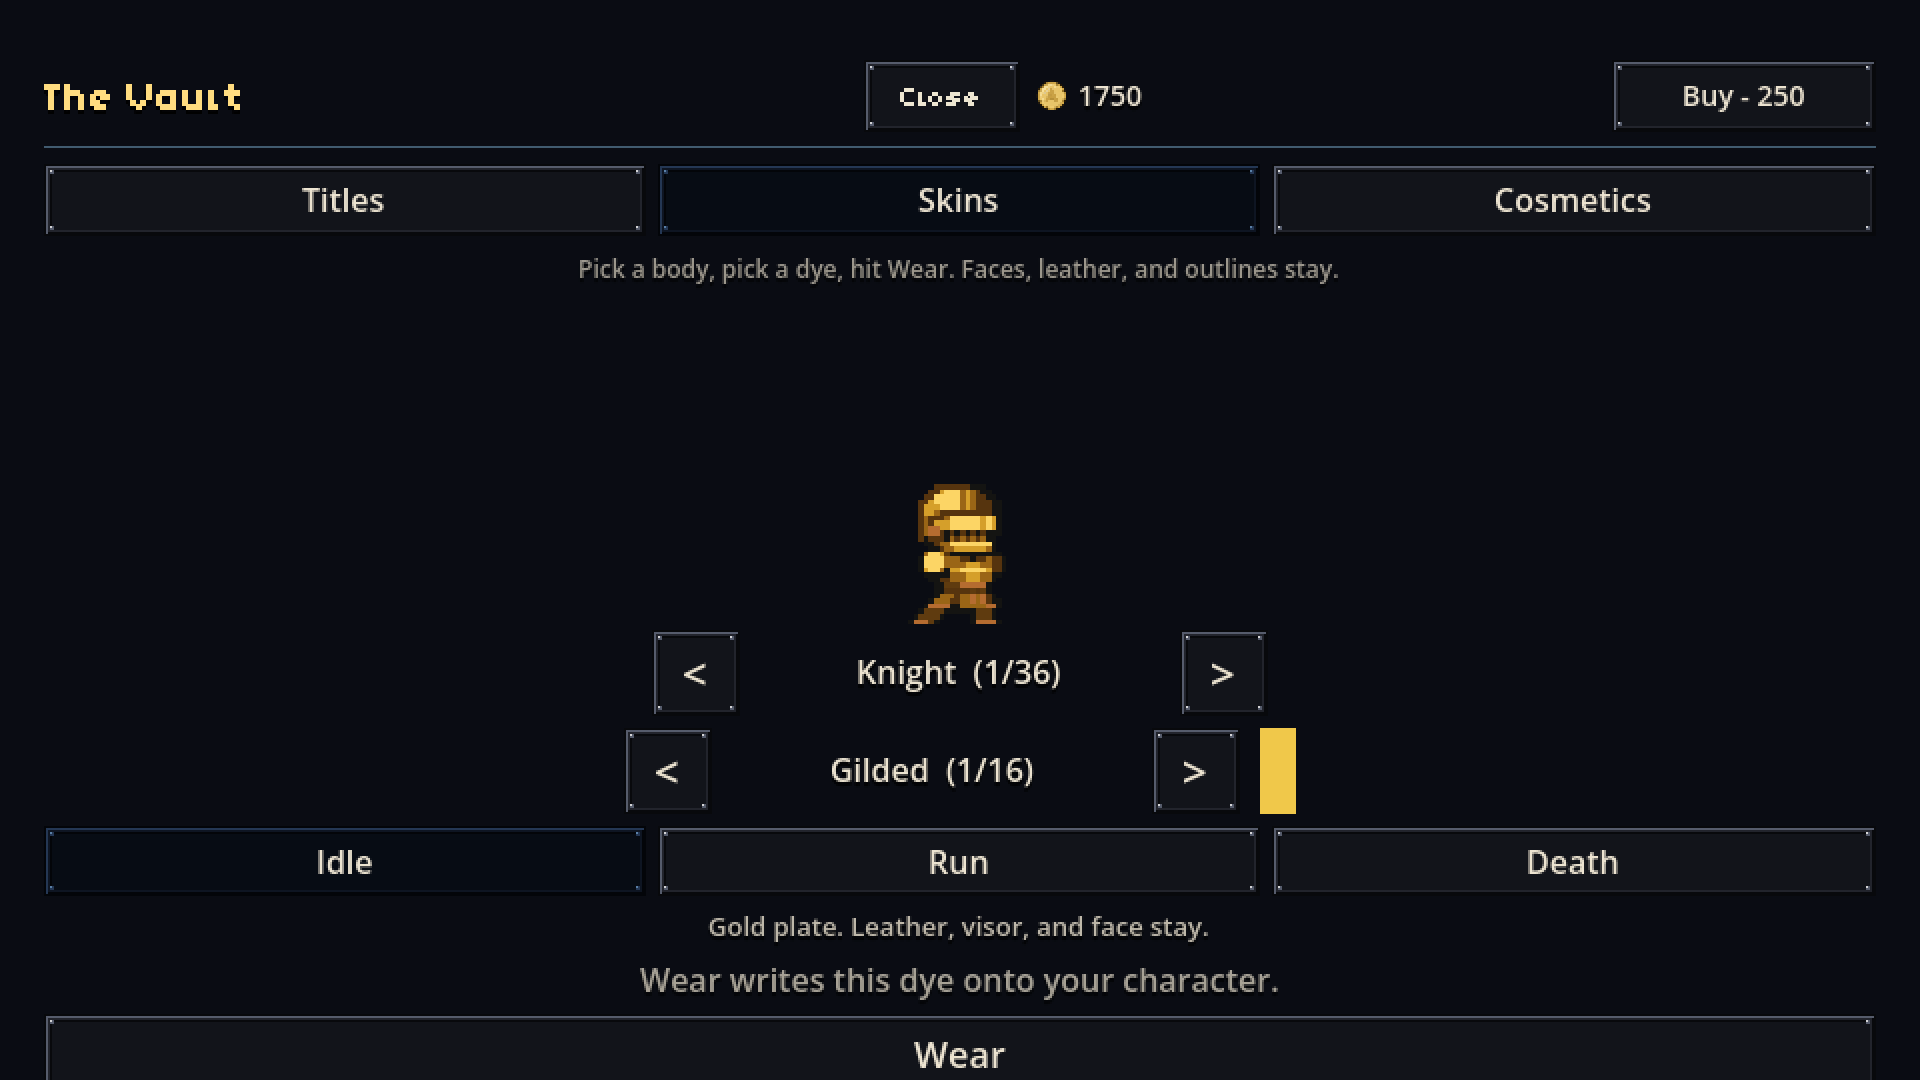
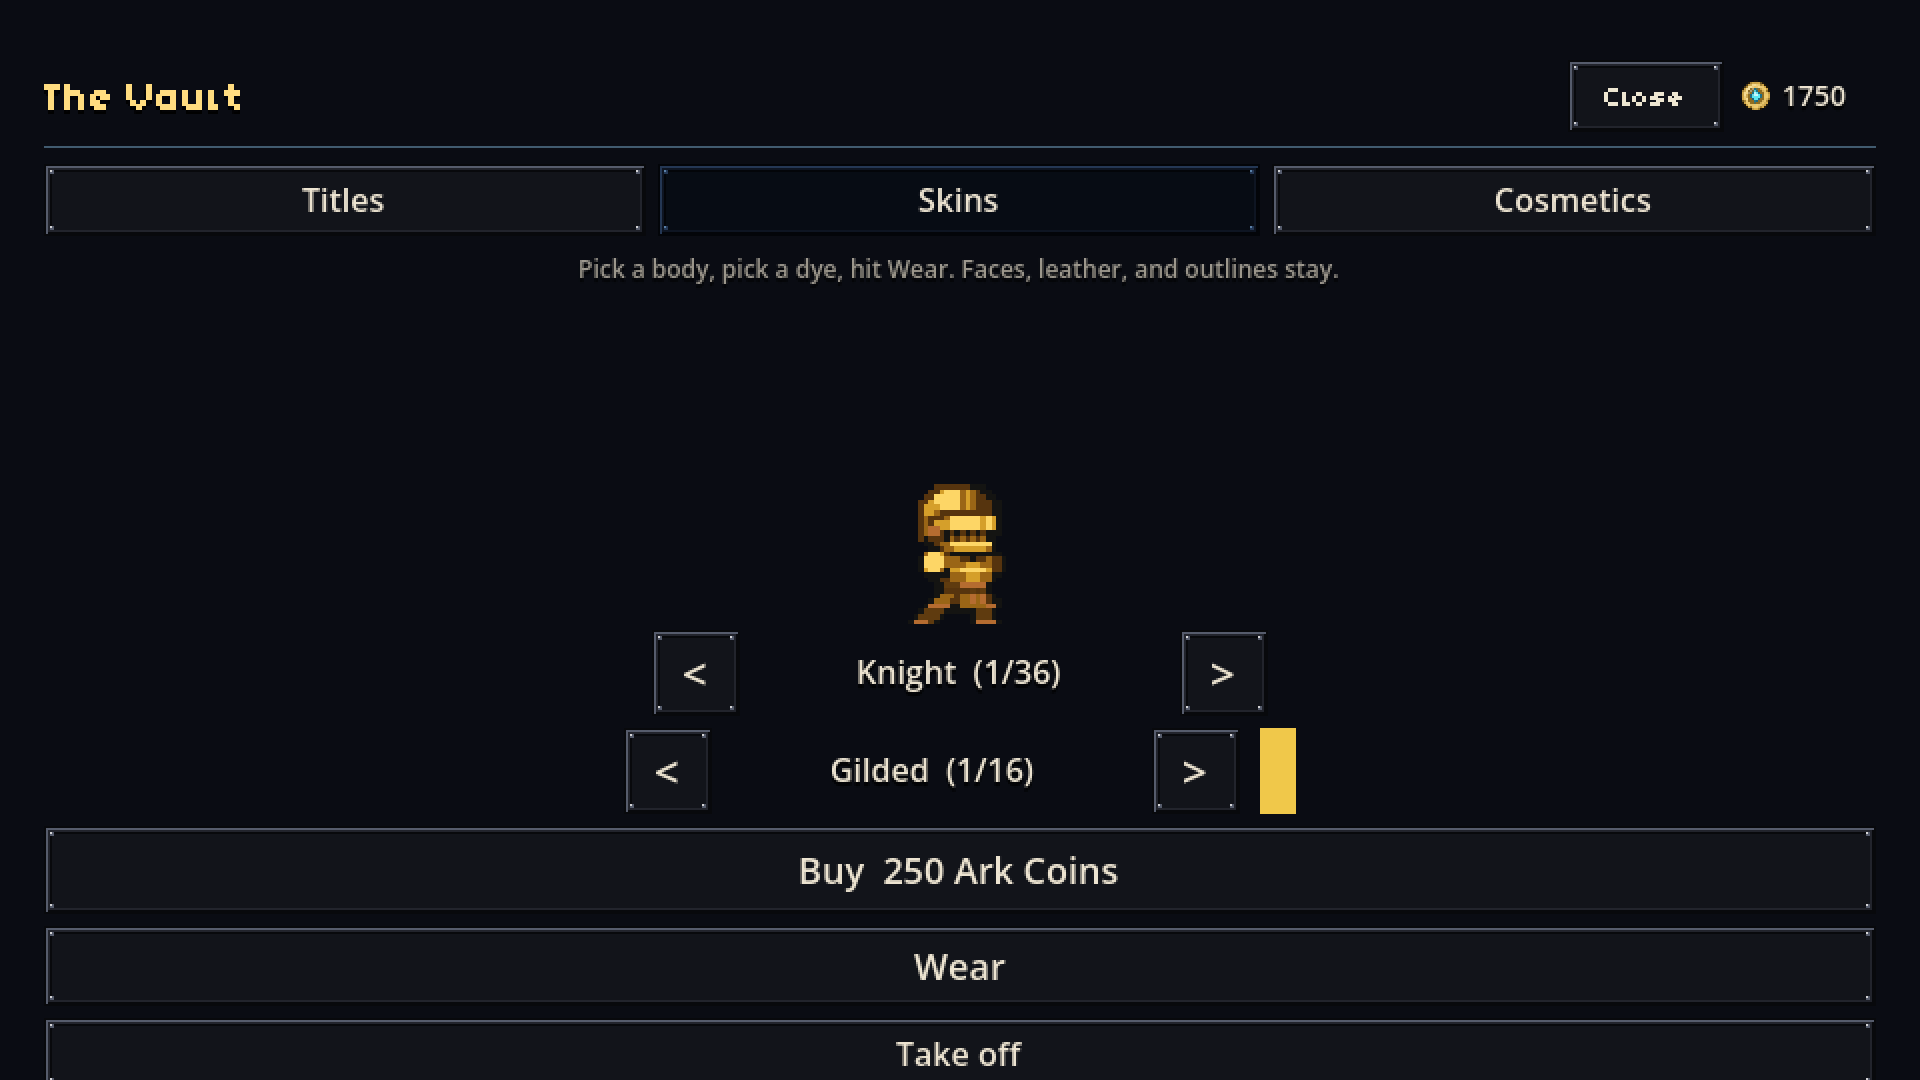
Ark Coin becomes a set gem; Buy moves above Wear; Skins loses its clutter
THE COIN IS A SET GEM NOW, not a struck letter. The letter-marks all failed the
same way: a glyph identifies by SHAPE, and shape is exactly what a NEAREST
halving to 16px destroys, so every A collapsed into a dark smear at the size the
coin is smallest. A gem identifies by COLOUR, and teal on gold survives any
downscale because it does not depend on any particular pixel surviving - measured
contrast at 16px went from 139 to 151. It also earns its place: gems are already
a generated icon family here, so a stone set in gold reads as something from this
game rather than as a logo in a circle. Teal is #5CE8F0, the Aether vault dye.

THE COMMA WAS NOT A BUG, IT WAS A MISSING GLYPH. --display is Jersey 10, which
has no real comma at that size, so toLocaleString's "1,000" rendered as a stray
block. Dropped the separator entirely; four digits do not need one.

SKINS: the Idle / Run / Death row and both lines under it are gone. The blurb
described the dye you were already looking at and the status line described the
button directly beneath it. The status label survives but is HIDDEN unless a Wear
actually fails, which is the only thing it was needed for.

BUY MOVED OUT OF THE HEADER AND INTO THE TAB, directly above each panel's own
Wear / Equip, full width at 18pt - the 14pt corner version was too small to read
a price off before clicking. One button is re-homed into whichever tab is
showing rather than three kept in sync, so "Processing..." and the in-flight lock
[…]

diff --git a/tools/build_ark_coin_icon.py b/tools/build_ark_coin_icon.py
@@ -20,7 +20,7 @@ It has to survive three sizes that are very far apart:
     every other pixel, so nothing thinner than ~3px at 64 is real)
   * 256px+ on the storefront
 
-So: ONE silhouette, ONE glyph, no fine detail. A face-on disc reads as coinage at
+So: ONE silhouette, ONE mark, no fine detail. A face-on disc reads as coinage at
 any size, and face-on (not the three-quarter ellipse that looks better large)
 keeps a clean circular edge when the pixels get thrown away.
 
@@ -29,13 +29,21 @@ are both #e8c56a, which is what the Donate page and every price uses. A premium
 currency in a NEW colour would be the only gold-adjacent thing on the site that
 is not those, and would read as a different kind of value.
 
-The glyph is an angular "A": two legs and a crossbar, 4px thick at 64 so it
-survives the halving. Deliberately not the project icon — that is a detailed
-mark that turns to mush below 32px.
+A SET GEM, NOT A LETTER, and that is the whole reason this version works. A
+glyph identifies by SHAPE, and shape is exactly what a NEAREST halving to 16px
+destroys — every letter-mark tried here collapsed into a dark smear at the size
+the coin is smallest. The gem identifies by COLOUR: teal against gold is a
+two-tone contrast that survives any downscale, because it does not depend on any
+particular pixel surviving.
 
-Stamped, not printed: the glyph is cut INTO the coin as a darker inset with a
-light top edge, so it reads as struck metal rather than a sticker. That is what
-keeps it looking like currency instead of a logo in a circle.
+It also earns its place in the world. Gems are already a generated icon family
+here (tools/build_gem_icons.py), where cut carries tier and hue carries role, so
+a gem set into gold reads as "valuable thing from this game" rather than as a
+logo someone put in a circle.
+
+Teal is #5CE8F0 — the Aether vault dye, the one palette in the game that is
+unmistakably arcane rather than elemental, and far enough from every gold on the
+site that the two can never blur together.
 
 Usage:  python tools/build_ark_coin_icon.py [--check]
         --check renders and reports legibility at 16/32/64 without writing.
@@ -71,6 +79,13 @@ GOLD_MID = (0xC9, 0xA1, 0x45)
 GOLD_DEEP = (0x8E, 0x6C, 0x22)
 OUTLINE = (0x2A, 0x1E, 0x08)
 
+# The set stone. Matches VaultSkins.STYLE_AETHER (#5ce8f0); the deep tone is the
+# same hue dropped in value, so the girdle reads as one stone in shadow rather
+# than as two colours side by side.
+GEM = (0x5C, 0xE8, 0xF0)
+GEM_DEEP = (0x1E, 0x6E, 0x86)
+GEM_LIGHT = (0xC4, 0xF7, 0xFB)
+
 # ~2px of rim at 64, so ~1px survives the drop to 32.
 OUTLINE_W = 2.0 * SS
 
@@ -79,23 +94,33 @@ def _disc(draw: ImageDraw.ImageDraw, cx: float, cy: float, r: float, fill) -> No
     draw.ellipse([cx - r, cy - r, cx + r, cy + r], fill=fill)
 
 
-def _glyph_a(draw: ImageDraw.ImageDraw, cx: float, cy: float, h: float, w: float, fill) -> None:
-    """An angular A: two splayed legs and a crossbar. No counter (the triangular
-    hole) — at 32px it fills in anyway, and leaving it out means the shape is the
-    same at every size instead of degrading into a blob."""
-    half = w * 0.5
-    top = cy - h * 0.5
-    bottom = cy + h * 0.5
-    stroke = w * 0.30
+def _gem(draw: ImageDraw.ImageDraw, cx: float, cy: float, r: float) -> None:
+    """A set stone: girdle, body, and one bright table facet.
 
-    draw.line([(cx, top), (cx - half, bottom)], fill=fill, width=int(stroke), joint="curve")
-    draw.line([(cx, top), (cx + half, bottom)], fill=fill, width=int(stroke), joint="curve")
-    # Crossbar low enough to leave the apex readable when the legs thicken.
-    bar_y = cy + h * 0.16
-    bar_half = half * 0.52
-    draw.line([(cx - bar_half, bar_y), (cx + bar_half, bar_y)], fill=fill, width=int(stroke * 0.9))
-    # Round the apex so the two legs read as one joined stroke at small sizes.
-    _disc(draw, cx, top, stroke * 0.5, fill)
+    A rhombus rather than a rounded stone because four straight edges and two
+    points stay recognisable when the pixel grid gets coarse - a circle inside a
+    circle just reads as a blob. Narrower than it is tall so it cannot be
+    mistaken for a square turned 45 degrees."""
+    draw.polygon(
+        [(cx, cy - r), (cx + r * 0.78, cy), (cx, cy + r), (cx - r * 0.78, cy)],
+        fill=GEM_DEEP,
+    )
+    draw.polygon(
+        [(cx, cy - r * 0.72), (cx + r * 0.56, cy), (cx, cy + r * 0.72), (cx - r * 0.56, cy)],
+        fill=GEM,
+    )
+    # Table facet, up and left with the coin's own light. Small on purpose: at
+    # 16px it merges into the body and the stone just reads a shade lighter,
+    # which is the right way for it to fail.
+    draw.polygon(
+        [
+            (cx, cy - r * 0.52),
+            (cx + r * 0.26, cy - r * 0.10),
+            (cx, cy + r * 0.06),
+            (cx - r * 0.26, cy - r * 0.10),
+        ],
+        fill=GEM_LIGHT,
+    )
 
 
 def render() -> Image.Image:
@@ -124,13 +149,10 @@ def render() -> Image.Image:
     _disc(d, cx - r_face * 0.10, cy - r_face * 0.10, r_face * 0.86, GOLD_LIGHT)
     _disc(d, cx, cy, r_face * 0.80, GOLD)
 
-    # The glyph, struck in: dark body with a light top edge one step up, which is
-    # what sells "pressed into metal" rather than "drawn on top of".
-    gh = r_face * 1.02
-    gw = r_face * 0.92
-    _glyph_a(d, cx, cy + C * 0.012, gh, gw, GOLD_DEEP)
-    _glyph_a(d, cx, cy - C * 0.004, gh, gw, GOLD_LIGHT)
-    _glyph_a(d, cx, cy + C * 0.004, gh, gw, GOLD_MID)
+    # A one-step shadow under the stone so it sits IN the coin rather than
+    # floating on the face.
+    _disc(d, cx, cy + C * 0.008, r_face * 0.76, GOLD_DEEP)
+    _gem(d, cx, cy, r_face * 0.72)
 
     # Two diagonal streaks, same highlight language as the gem pack.
     gloss = Image.new("RGBA", (C, C), (0, 0, 0, 0))
